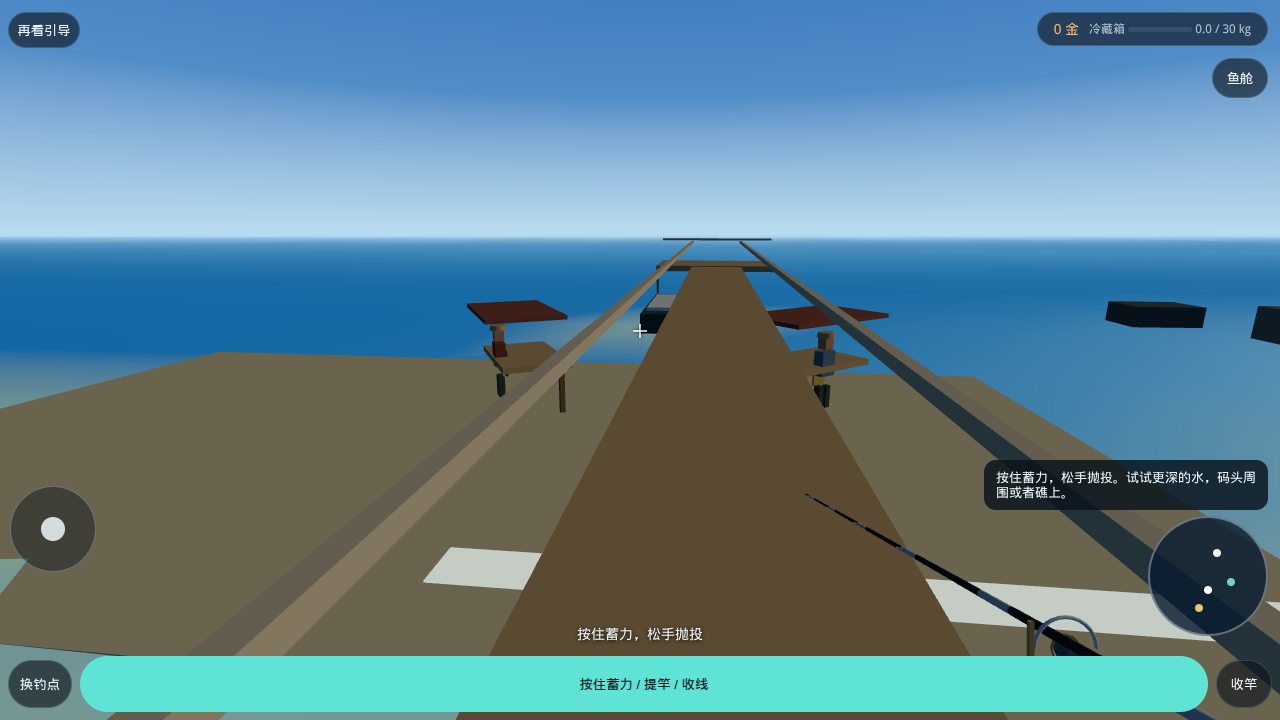
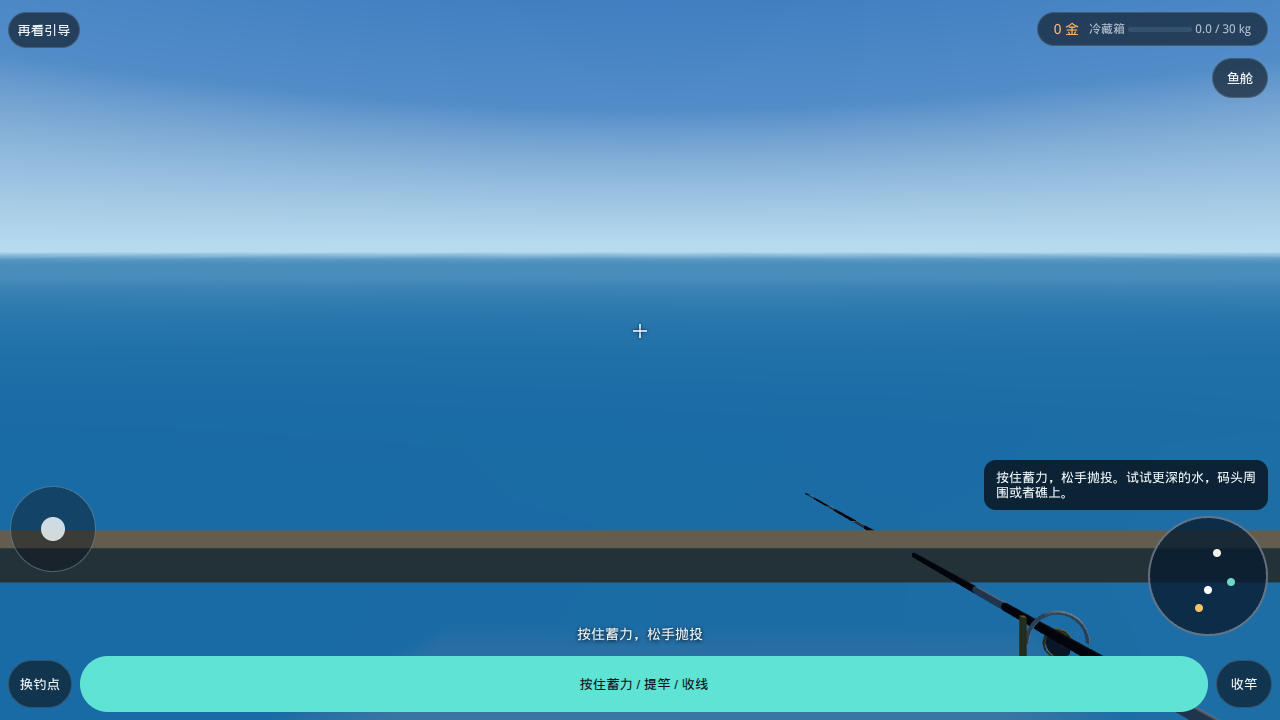
把码头待机点挪到 T 头，轻杆不再落在木面上。
人站在栈桥尽头朝海，沿码头可以走回岸上找乔和玛塔。沙滩、码头、船的轻、中、满力落点都在有鱼的水里。竖屏把竿身展开，能看清竿身、轮和竿尖。

diff --git a/tests/fishing.test.ts b/tests/fishing.test.ts
@@ -20,7 +20,7 @@ import { gearStats, UPGRADES } from "../assets/scripts/fishing/Gear";
 import { fishingHarborGate } from "../assets/scripts/fishing/HarborGate";
 import { reelDragRate, reelWindRate, strainGain, swishGain, swishRate } from "../assets/scripts/fishing/audio/mix";
 import { applyCornerFit, blankCameraPoints, bendExponent, bobberPixelScale, fitLowerRight, presentLinePoint, presentViewPoint, RodRig, yawLocalPoint } from "../assets/scripts/fishing/RodRig";
-import { depthAt, dominantHabitat, fishingLook, onFooting, pierDistance, reefDistance, sampleCast, SPOT_EYE, vendorAt, VENDORS } from "../assets/scripts/fishing/SpotQuery";
+import { depthAt, dominantHabitat, fishingLook, onDryGround, onFooting, onPierDeck, pierDistance, reefDistance, sampleCast, SPOT_EYE, vendorAt, VENDORS } from "../assets/scripts/fishing/SpotQuery";
 import { PERIODS, shoreLook, sunDirection } from "../assets/scripts/fishing/Waters";
 import { GUIDE_CARDS } from "../assets/scripts/fishing/present";
 
@@ -678,13 +678,33 @@ describe("full-power cast stays in fish water", () => {
     expect(sand.view.notice).toContain("沙滩");
   });
 
-  it("walks the sand from the pier to both stalls and will not step into the channel", () => {
+  it("lands light, medium, and full casts from every spot in fish water", () => {
+    const powers = [0, 0.5, 1];
+    let cases = 0;
+    for (const spot of ["beach", "pier", "boat"] as const) {
+      for (const castM of [22, 32, 45]) {
+        for (const power of powers) {
+          const landed = throwPower(spot, castM, power);
+          const label = `${spot} ${castM}m power ${power} @ ${landed.x.toFixed(1)},${landed.z.toFixed(1)}`;
+          expect(onDryGround(landed.x, landed.z), label).toBe(false);
+          expect(onPierDeck(landed.x, landed.z), label).toBe(false);
+          expect(landed.depth, label).toBeGreaterThanOrEqual(0.25);
+          expect(biteDelay(landed.habitat, 16.2, () => 0.2), label).not.toBe(Infinity);
+          cases += 1;
+        }
+      }
+    }
+    expect(cases).toBe(27);
+  });
+
+  it("walks the pier back from the T-head to both stalls and will not step into the channel", () => {
     const trip = new FishingTrip({ rng: () => 0, money: 0 });
     trip.skipGuide();
     trip.setSpot("pier");
     trip.toReady();
+    expect(trip.view.eyeZ).toBeGreaterThan(12);
     const stepTo = (x: number, z: number) => {
-      for (let i = 0; i < 80; i++) {
+      for (let i = 0; i < 120; i++) {
         const dx = x - trip.view.eyeX;
         const dz = z - trip.view.eyeZ;
         if (Math.hypot(dx, dz) < 0.2) return;
@@ -692,11 +712,13 @@ describe("full-power cast stays in fish water", () => {
         trip.moveFeet((dx / d) * 0.45, (dz / d) * 0.45);
       }
     };
+    stepTo(8.05, -6);
     stepTo(6.1, -6);
     stepTo(VENDORS[0].x, VENDORS[0].z);
     expect(vendorAt(trip.view.eyeX, trip.view.eyeZ)?.id).toBe("joe");
     expect(onFooting(trip.view.eyeX, trip.view.eyeZ)).toBe(true);
     trip.setSpot("pier");
+    stepTo(8.05, -6);
     stepTo(12.2, -6);
     stepTo(VENDORS[1].x, VENDORS[1].z);
     expect(vendorAt(trip.view.eyeX, trip.view.eyeZ)?.id).toBe("marta");
@@ -723,8 +745,8 @@ describe("full-power cast stays in fish water", () => {
   });
 });
 
-function throwFull(spot: "beach" | "pier" | "boat", castM: number): { x: number; z: number; depth: number; habitat: ReturnType<typeof habitatAt>; pastTip: number; line: number } {
-  const sample = sampleCast(spot, "bay", 1, castM, 0);
+function throwPower(spot: "beach" | "pier" | "boat", castM: number, power: number): { x: number; z: number; depth: number; habitat: ReturnType<typeof habitatAt>; pastTip: number; line: number } {
+  const sample = sampleCast(spot, "bay", power, castM, 0);
   const eye = spot === "boat" ? { x: sample.x, y: 2.2, z: sample.z - 6 } : SPOT_EYE[spot];
   const look = fishingLook(spot, eye.x, eye.z);
   const yaw = Math.atan2(-(look.x - eye.x), -(look.z - eye.z));
@@ -734,13 +756,15 @@ function throwFull(spot: "beach" | "pier" | "boat", castM: number): { x: number;
   const frame = { camX: eye.x, camY: eye.y, camZ: eye.z, yaw, waterY: 0, fight: null, dip: 0 };
   rig.update(0.05, frame);
   rig.startWindup();
-  rig.update(1.1, frame);
+  rig.update(power >= 0.99 ? 1.1 : 0.02, frame);
+  rig.power = power;
   rig.release(sample.x, sample.z);
   let n = 0;
-  while (rig.state !== "floating" && n < 500) {
+  while (rig.state !== "floating" && n < 800) {
     rig.update(1 / 60, frame);
     n++;
   }
+  if (rig.state !== "floating") throw new Error(`${spot} ${castM} power ${power} did not land`);
   const depth = depthAt(rig.bobX, rig.bobZ);
   return {
     x: rig.bobX,
@@ -750,6 +774,10 @@ function throwFull(spot: "beach" | "pier" | "boat", castM: number): { x: number;
     pastTip: Math.hypot(rig.bobX - rig.tipX, rig.bobZ - rig.tipZ),
     line: rig.splashLine,
   };
+}
+
+function throwFull(spot: "beach" | "pier" | "boat", castM: number) {
+  return throwPower(spot, castM, 1);
 }
 
 function presentBlank(raw: Float32Array): { tip: [number, number, number]; fit: ReturnType<typeof fitLowerRight> } {

diff --git a/docs/fishing-play/app.js b/docs/fishing-play/app.js
@@ -22764,18 +22764,18 @@ void main() {
   // assets/scripts/fishing/SpotQuery.ts
   var SPOT_EYE = {
     beach: { x: -1.2, y: 1.65, z: -8 },
-    pier: { x: 8.15, y: 3.88, z: -9.5 },
+    pier: { x: 8.05, y: 3.88, z: 14.5 },
     boat: { x: 9.4, y: 2.2, z: 14.6 }
   };
   var VENDORS = [
     { id: "joe", name: "\u4E54", x: 6, z: 2.6, yaw: 0.7, radius: 3.2 },
     { id: "marta", name: "\u739B\u5854", x: 12.5, z: 2.6, yaw: -1.05, radius: 3 }
   ];
-  var BOAT_MOOR = { x: 9.5, z: 14.6 };
+  var BOAT_MOOR = { x: 12.2, z: 13.4 };
   var STROLL_M = 42;
   var SHORE_Z = -4;
-  var PIER_LOOK_X = 1.7;
-  var PIER_LOOK_Z = 14;
+  var PIER_LOOK_X = 0;
+  var PIER_LOOK_Z = 16;
   function fishingLook(spot, eyeX, eyeZ) {
     if (spot === "beach") return { x: eyeX, y: 0.35, z: eyeZ + 12 };
     if (spot === "boat") return { x: eyeX + 8, y: 0.4, z: eyeZ + 3 };
@@ -23196,9 +23196,9 @@ void main() {
       this.feetZ = z;
       this.publish();
     }
-    /** 左右滑动，大约 ±25°。抛投方向跟着镜头转。 */
+    /** 左右滑动可以转过身。抛投方向跟着镜头转。码头默认仍朝海。 */
     setAimYaw(yaw) {
-      const limit = 25 * Math.PI / 180;
+      const limit = Math.PI;
       this.aimYaw = Math.min(limit, Math.max(-limit, yaw));
     }
     toDock() {
@@ -24728,8 +24728,8 @@ void main() {
   });
   addEventListener("pointermove", (event) => {
     if (!yawDrag) return;
-    const limit = 25 * Math.PI / 180;
-    aimYaw = Math.max(-limit, Math.min(limit, aimYaw + (event.clientX - yawX) / Math.max(1, innerWidth) * 1.2));
+    const limit = Math.PI;
+    aimYaw = Math.max(-limit, Math.min(limit, aimYaw + (event.clientX - yawX) / Math.max(1, innerWidth) * Math.PI));
     yawX = event.clientX;
     trip.setAimYaw(aimYaw);
   });
@@ -25097,17 +25097,20 @@ ${v.waypointName}` : "\u6362\u9493\u70B9";
     }
     const fit = fitLowerRight(pts);
     const narrow = innerWidth / innerHeight < 0.8;
-    const tuckOrigin = narrow ? [pts[0], pts[1], pts[2]] : null;
-    if (tuckOrigin) {
-      const [ax, ay, az] = tuckOrigin;
-      const k = 0.55;
-      const bx = 0.16;
-      const by = -0.22;
-      const bz = -0.95;
-      for (let i = 0; i < pts.length; i += 3) {
-        pts[i] = bx + (pts[i] - ax) * k;
-        pts[i + 1] = by + (pts[i + 1] - ay) * k;
-        pts[i + 2] = bz + (pts[i + 2] - az) * k;
+    const rodN = pts.length / 3 - 1;
+    const srcButt = [pts[0], pts[1], pts[2]];
+    const srcTip = [pts[rodN * 3], pts[rodN * 3 + 1], pts[rodN * 3 + 2]];
+    const dstButt = [0.124, -0.212, -0.52];
+    const dstTip = [0.126, -0.175, -1.12];
+    if (narrow) {
+      for (let i = 0; i <= rodN; i++) {
+        const s = i / rodN;
+        const ox = pts[i * 3] - (srcButt[0] + (srcTip[0] - srcButt[0]) * s);
+        const oy = pts[i * 3 + 1] - (srcButt[1] + (srcTip[1] - srcButt[1]) * s);
+        const oz = pts[i * 3 + 2] - (srcButt[2] + (srcTip[2] - srcButt[2]) * s);
+        pts[i * 3] = dstButt[0] + (dstTip[0] - dstButt[0]) * s + ox * 0.7;
+        pts[i * 3 + 1] = dstButt[1] + (dstTip[1] - dstButt[1]) * s + oy * 0.7;
+        pts[i * 3 + 2] = dstButt[2] + (dstTip[2] - dstButt[2]) * s + oz * 0.7;
       }
     }
     const yAxis = new Vector3(0, 1, 0);
@@ -25200,15 +25203,11 @@ ${v.waypointName}` : "\u6362\u9493\u70B9";
           z += (bobTrue[2] - end[2]) * t;
         }
         if (z > -0.15) z = -0.15;
-        if (tuckOrigin) {
-          const [ax, ay, az] = tuckOrigin;
+        if (narrow) {
           const amount = (1 - t) * (1 - t);
-          const tx = 0.16 + (x - ax) * 0.55;
-          const ty = -0.22 + (y - ay) * 0.55;
-          const tz = -0.95 + (z - az) * 0.55;
-          x += (tx - x) * amount;
-          y += (ty - y) * amount;
-          z += (tz - z) * amount;
+          x = dstTip[0] * amount + x * (1 - amount);
+          y = dstTip[1] * amount + y * (1 - amount);
+          z = dstTip[2] * amount + z * (1 - amount);
         }
         arr[i * 3] = x;
         arr[i * 3 + 1] = y;

diff --git a/tools/fishing-preview/play.ts b/tools/fishing-preview/play.ts
@@ -556,8 +556,8 @@ viewEl.addEventListener("pointerdown", (event) => {
 });
 addEventListener("pointermove", (event) => {
   if (!yawDrag) return;
-  const limit = 25 * Math.PI / 180;
-  aimYaw = Math.max(-limit, Math.min(limit, aimYaw + (event.clientX - yawX) / Math.max(1, innerWidth) * 1.2));
+  const limit = Math.PI;
+  aimYaw = Math.max(-limit, Math.min(limit, aimYaw + (event.clientX - yawX) / Math.max(1, innerWidth) * Math.PI));
   yawX = event.clientX;
   trip.setAimYaw(aimYaw);
 });
@@ -943,17 +943,21 @@ function syncRig(dt: number): void {
   }
   const fit = fitLowerRight(pts);
   const narrow = innerWidth / innerHeight < 0.8;
-  const tuckOrigin = narrow ? [pts[0], pts[1], pts[2]] as const : null;
-  if (tuckOrigin) {
-    const [ax, ay, az] = tuckOrigin;
-    const k = 0.55;
-    const bx = 0.16;
-    const by = -0.22;
-    const bz = -0.95;
-    for (let i = 0; i < pts.length; i += 3) {
-      pts[i] = bx + (pts[i] - ax) * k;
-      pts[i + 1] = by + (pts[i + 1] - ay) * k;
-      pts[i + 2] = bz + (pts[i + 2] - az) * k;
+  const rodN = pts.length / 3 - 1;
+  const srcButt = [pts[0], pts[1], pts[2]];
+  const srcTip = [pts[rodN * 3], pts[rodN * 3 + 1], pts[rodN * 3 + 2]];
+  // 竖屏竿本来几乎沿着同一条视线，只放大仍是一小截。把握把和竿尖分开放到画面右下。
+  const dstButt = [0.124, -0.212, -0.52];
+  const dstTip = [0.126, -0.175, -1.12];
+  if (narrow) {
+    for (let i = 0; i <= rodN; i++) {
+      const s = i / rodN;
+      const ox = pts[i * 3] - (srcButt[0] + (srcTip[0] - srcButt[0]) * s);
+      const oy = pts[i * 3 + 1] - (srcButt[1] + (srcTip[1] - srcButt[1]) * s);
+      const oz = pts[i * 3 + 2] - (srcButt[2] + (srcTip[2] - srcButt[2]) * s);
+      pts[i * 3] = dstButt[0] + (dstTip[0] - dstButt[0]) * s + ox * 0.7;
+      pts[i * 3 + 1] = dstButt[1] + (dstTip[1] - dstButt[1]) * s + oy * 0.7;
+      pts[i * 3 + 2] = dstButt[2] + (dstTip[2] - dstButt[2]) * s + oz * 0.7;
     }
   }
   const yAxis = new THREE.Vector3(0, 1, 0);
@@ -1047,15 +1051,11 @@ function syncRig(dt: number): void {
         z += (bobTrue[2] - end[2]) * t;
       }
       if (z > -0.15) z = -0.15;
-      if (tuckOrigin) {
-        const [ax, ay, az] = tuckOrigin;
+      if (narrow) {
         const amount = (1 - t) * (1 - t);
-        const tx = 0.16 + (x - ax) * 0.55;
-        const ty = -0.22 + (y - ay) * 0.55;
-        const tz = -0.95 + (z - az) * 0.55;
-        x += (tx - x) * amount;
-        y += (ty - y) * amount;
-        z += (tz - z) * amount;
+        x = dstTip[0] * amount + x * (1 - amount);
+        y = dstTip[1] * amount + y * (1 - amount);
+        z = dstTip[2] * amount + z * (1 - amount);
       }
       arr[i * 3] = x;
       arr[i * 3 + 1] = y;

diff --git a/assets/scripts/fishing/SpotQuery.ts b/assets/scripts/fishing/SpotQuery.ts
@@ -12,11 +12,11 @@ export type WaypointId = "bay" | "reef" | "deep";
 
 /**
  * 岛、沙滩、码头、摊位按原版相对位置收到大约 0.28。
- * 钓鱼站在栈桥靠岸的一头，海在前方，乔和玛塔在两侧沙臂上，摇杆走得到。
+ * 码头人站在 T 头上，海在正前方，乔和玛塔在身后两侧，沿栈桥走回岸。
  */
 export const SPOT_EYE: { [id in SpotId]: { x: number; y: number; z: number } } = {
   beach: { x: -1.2, y: 1.65, z: -8.0 },
-  pier: { x: 8.15, y: 3.88, z: -9.5 },
+  pier: { x: 8.05, y: 3.88, z: 14.5 },
   boat: { x: 9.4, y: 2.2, z: 14.6 },
 };
 
@@ -26,7 +26,8 @@ export const VENDORS = [
   { id: "marta" as const, name: "玛塔", x: 12.5, z: 2.6, yaw: -1.05, radius: 3.0 },
 ];
 
-export const BOAT_MOOR = { x: 9.5, z: 14.6 };
+/** 停在 T 头右侧的水里，不挡正前方的抛投。 */
+export const BOAT_MOOR = { x: 12.2, z: 13.4 };
 
 /** 沿沙滩和码头能走到两个摊位，再远就不往海里放。 */
 export const STROLL_M = 42;
@@ -47,9 +48,9 @@ export function vendorAt(x: number, z: number): (typeof VENDORS)[number] | null 
   return best;
 }
 
-/** 顺着栈桥略偏右，落点在码头外侧的水里，不砸在木面上。 */
-const PIER_LOOK_X = 1.7;
-const PIER_LOOK_Z = 14;
+/** T 头朝海的正前方。短杆也落在木头前面的水里。 */
+const PIER_LOOK_X = 0;
+const PIER_LOOK_Z = 16;
 
 export function fishingLook(spot: SpotId, eyeX: number, eyeZ: number): { x: number; y: number; z: number } {
   if (spot === "beach") return { x: eyeX, y: 0.35, z: eyeZ + 12 };

diff --git a/assets/scripts/fishing/FishingTrip.ts b/assets/scripts/fishing/FishingTrip.ts
@@ -330,9 +330,9 @@ export class FishingTrip {
     this.publish();
   }
 
-  /** 左右滑动，大约 ±25°。抛投方向跟着镜头转。 */
+  /** 左右滑动可以转过身。抛投方向跟着镜头转。码头默认仍朝海。 */
   setAimYaw(yaw: number): void {
-    const limit = 25 * Math.PI / 180;
+    const limit = Math.PI;
     this.aimYaw = Math.min(limit, Math.max(-limit, yaw));
   }
 

diff --git a/docs/fishing-play/README.md b/docs/fishing-play/README.md
@@ -8,7 +8,7 @@
 2. 脚本、样式、音效都是相对路径（`app.js`、`hud.css`、`audio/*.mp3`），用文件管理器打开即可。
 3. 若浏览器拦截 `file://` 下的脚本，把 `docs/fishing-play/` 放到任意静态站点。若仓库开启 GitHub Pages 并指向 `docs/`，地址是 `.../fishing-play/`。本仓库不改 Pages 设置。
 
-触屏：底部按住蓄力、松手抛竿、浮标落水后才开始等咬、拉下去再提、按住收线。沙滩和码头上，左侧圆钮可以沿沙和木面走到乔、玛塔。左右滑动大约能偏转 25°。屏幕中间有准星。乔在码头左前方的沙嘴上，半径 3.2 米；玛塔在右前方的沙臂上，半径 3.0 米。走进这个半径才出现「交谈」。点小地图仍可直接打开他们。左下角「换钓点」在沙滩、码头、船之间换。鱼舱里可以放生。左上角「再看引导」把钓鱼引导再播一遍，不解锁港口教学。时段不会自己跳，要用调试条里的清晨、白天、黄昏、夜晚来换；默认是 16.2 点，天色按这个钟点，不自动跳到下一档。地址加上 `?debug=1` 才显示水域、时段、乔、玛塔、鱼舱、拿出鱼竿、收回那一排。第一页是引导，第二页是手机上的抛、提、收。点「跳过」或「下一步」。
+触屏：底部按住蓄力、松手抛竿、浮标落水后才开始等咬、拉下去再提、按住收线。码头人站在 T 头上，海在正前方。左侧圆钮沿木面走回岸，再沿沙走到乔、玛塔；左右滑动可以转身。屏幕中间有准星。乔在岸上左后方的沙嘴，半径 3.2 米；玛塔在右后方的沙臂，半径 3.0 米。走进这个半径才出现「交谈」。点小地图仍可直接打开他们。左下角「换钓点」在沙滩、码头、船之间换。鱼舱里可以放生。左上角「再看引导」把钓鱼引导再播一遍，不解锁港口教学。时段不会自己跳，要用调试条里的清晨、白天、黄昏、夜晚来换；默认是 16.2 点，天色按这个钟点，不自动跳到下一档。地址加上 `?debug=1` 才显示水域、时段、乔、玛塔、鱼舱、拿出鱼竿、收回那一排。第一页是引导，第二页是手机上的抛、提、收。点「跳过」或「下一步」。
 
 重新打包（改了 `tools/fishing-preview/play.ts` 之后）：
 
